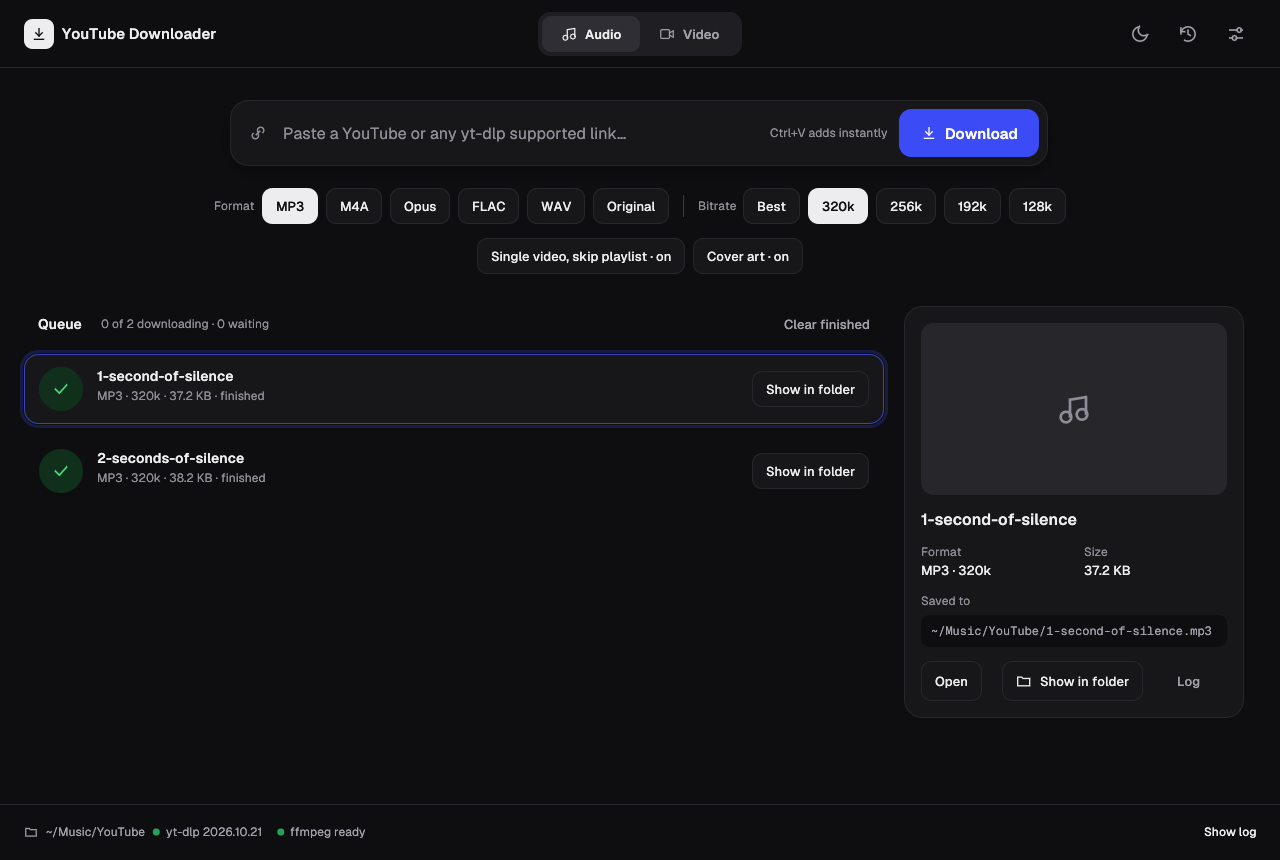
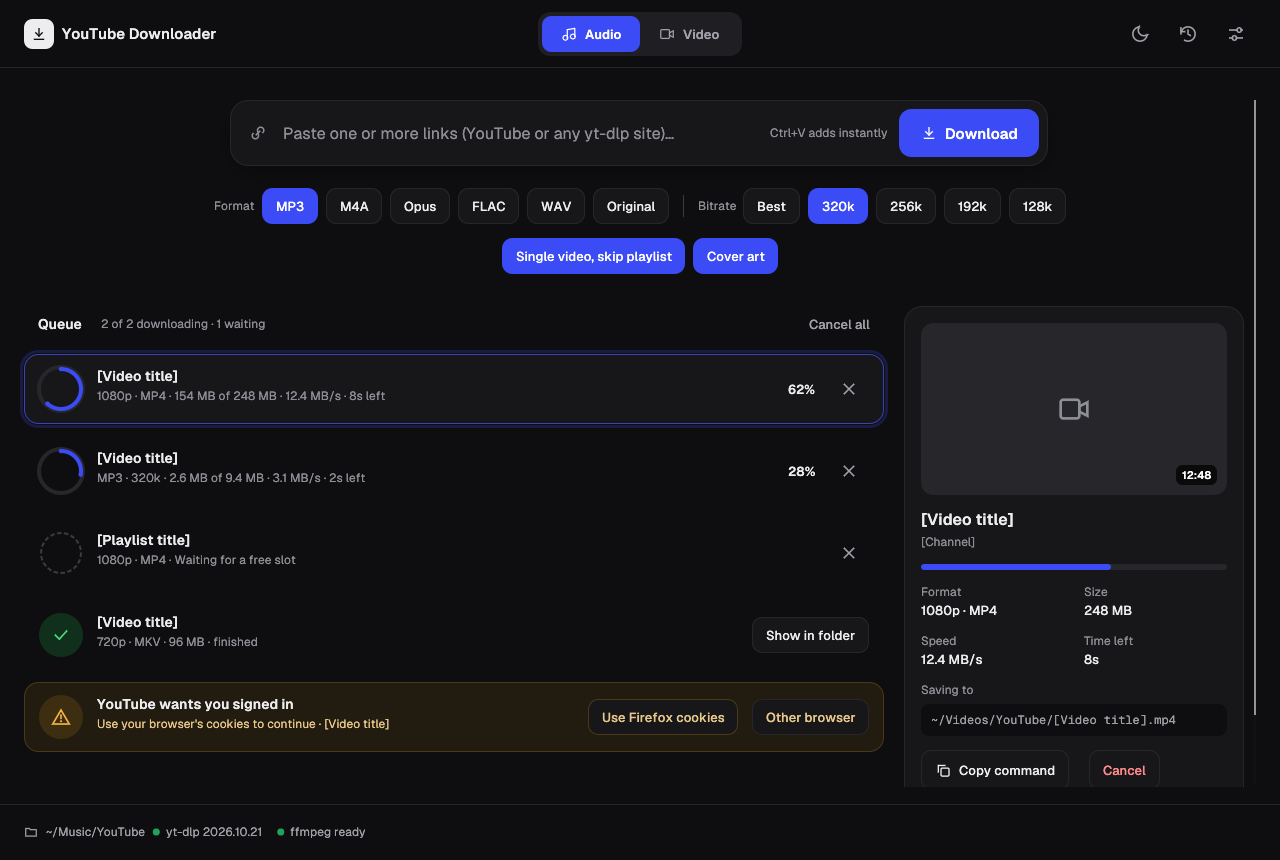
Selected choices use the accent color, like the Download button
Selected chips (format, quality, bitrate, settings choices), the
selected Audio/Video segment and on/off options now share the blue of
the Download button instead of an inverted white/black. On/off options
look selected when on, without the '· on/off' suffix. The link field
says it takes one or more links. README screenshots refreshed.
Version 0.1.2.

diff --git a/crates/app/src/widgets.rs b/crates/app/src/widgets.rs
@@ -25,7 +25,7 @@ fn galley(
 /// A pill-shaped choice, e.g. `1080p` or `MP3`.
 pub fn chip(ui: &mut Ui, label: &str, selected: bool) -> Response {
     let p = palette(ui.ctx());
-    let fg = if selected { p.chip_selected_fg } else { p.text };
+    let fg = if selected { p.on_accent } else { p.text };
     let text = galley(ui, label, 13.0, Weight::Medium, fg);
     let size = vec2(text.size().x + 28.0, 36.0);
     let (rect, resp) = ui.allocate_exact_size(size, Sense::click());
@@ -33,7 +33,13 @@ pub fn chip(ui: &mut Ui, label: &str, selected: bool) -> Response {
     if ui.is_rect_visible(rect) {
         let r = CornerRadius::same(radius::CONTROL);
         if selected {
-            ui.painter().rect_filled(rect, r, p.chip_selected_bg);
+            // Same color as the Download button, so every choice reads as one system.
+            let fill = if resp.hovered() {
+                p.accent_hover
+            } else {
+                p.accent
+            };
+            ui.painter().rect_filled(rect, r, fill);
         } else {
             let fill = if resp.hovered() {
                 p.surface_hover
@@ -86,7 +92,7 @@ pub fn segmented<T: PartialEq + Copy>(
     let labels: Vec<_> = options
         .iter()
         .map(|(v, _, l)| {
-            let color = if v == value { p.text } else { p.muted };
+            let color = if v == value { p.on_accent } else { p.muted };
             galley(ui, l, 13.0, Weight::SemiBold, color)
         })
         .collect();
@@ -117,12 +123,12 @@ pub fn segmented<T: PartialEq + Copy>(
                 r,
                 Color32::from_black_alpha(18),
             );
-            ui.painter().rect_filled(rect, r, p.segment_selected);
+            ui.painter().rect_filled(rect, r, p.accent);
         } else if resp.hovered() {
             ui.painter()
                 .rect_filled(rect, CornerRadius::same(9), p.surface_hover);
         }
-        let color = if selected { p.text } else { p.muted };
+        let color = if selected { p.on_accent } else { p.muted };
         let content_w = 15.0 + 8.0 + text.size().x;
         let left = rect.center().x - content_w / 2.0;
         icons::paint(
@@ -406,8 +412,10 @@ pub fn link_field(ui: &mut Ui, text: &mut String, paste_hint: &str) -> LinkField
                     .font(font(16.0, Weight::Regular))
                     .text_color(p.text)
                     .hint_text(
-                        egui::RichText::new("Paste a YouTube or any yt-dlp supported link…")
-                            .color(p.faint),
+                        egui::RichText::new(
+                            "Paste one or more links (YouTube or any yt-dlp site)…",
+                        )
+                        .color(p.faint),
                     )
                     .desired_width(field_w)
                     .vertical_align(egui::Align::Center)

diff --git a/crates/app/src/theme.rs b/crates/app/src/theme.rs
@@ -23,11 +23,7 @@ pub struct Palette {
     pub accent: Color32,
     pub accent_hover: Color32,
     pub on_accent: Color32,
-    /// Selected chips are the inverse of the page: light on dark, dark on light.
-    pub chip_selected_bg: Color32,
-    pub chip_selected_fg: Color32,
     pub segment_bg: Color32,
-    pub segment_selected: Color32,
     pub selected_border: Color32,
     pub selected_glow: Color32,
     pub track: Color32,
@@ -57,10 +53,7 @@ pub const DARK: Palette = Palette {
     accent: hex(0x3B4BF5),
     accent_hover: hex(0x4F5DF7),
     on_accent: hex(0xFFFFFF),
-    chip_selected_bg: hex(0xEDEDEF),
-    chip_selected_fg: hex(0x111113),
     segment_bg: hex(0x1F1F23),
-    segment_selected: hex(0x2E2E34),
     selected_border: hex(0x3A44B8),
     selected_glow: Color32::from_rgba_premultiplied(13, 17, 55, 56),
     track: hex(0x26262B),
@@ -86,10 +79,7 @@ pub const LIGHT: Palette = Palette {
     accent: hex(0x3B4BF5),
     accent_hover: hex(0x2F3EE0),
     on_accent: hex(0xFFFFFF),
-    chip_selected_bg: hex(0x18181B),
-    chip_selected_fg: hex(0xFFFFFF),
     segment_bg: hex(0xEAE8E2),
-    segment_selected: hex(0xFFFFFF),
     selected_border: hex(0xD9DCFF),
     selected_glow: hex(0xEEF0FF),
     track: hex(0xECEAE4),
@@ -294,12 +284,12 @@ mod tests {
                     assert!(c >= 4.5, "{fg:?} on {bg:?} is only {c:.2}:1");
                 }
             }
+            // Selected chips, the Audio/Video switch and buttons all use the accent.
             assert!(contrast(p.on_accent, p.accent) >= 4.5);
-            assert!(contrast(p.chip_selected_fg, p.chip_selected_bg) >= 4.5);
+            assert!(contrast(p.on_accent, p.accent_hover) >= 4.5);
             assert!(contrast(p.success, p.success_bg) >= 4.5);
             assert!(contrast(p.warn_text, p.warn_bg) >= 4.5);
             assert!(contrast(p.danger, p.surface) >= 4.5);
-            assert!(contrast(p.text, p.segment_selected) >= 4.5);
         }
     }
 }

diff --git a/crates/app/src/app.rs b/crates/app/src/app.rs
@@ -600,9 +600,9 @@ impl App {
             if video {
                 toggles.push(("Subtitles", &mut o.embed_subs));
             }
+            // On/off options look selected when on, like the other choices.
             for (label, value) in toggles {
-                let text = format!("{label} · {}", if *value { "on" } else { "off" });
-                if w::chip(ui, &text, false).clicked() {
+                if w::chip(ui, label, *value).clicked() {
                     *value = !*value;
                     changed = true;
                 }

diff --git a/README.md b/README.md
@@ -15,8 +15,7 @@ A fast, native desktop app for downloading audio and video with
 | ![Main window, dark theme, two finished audio downloads](docs/screenshots/main-dark.png) | ![Main window, light theme, video mode with sample queue](docs/screenshots/main-light.png) |
 | ![Settings page, dark theme](docs/screenshots/settings.png) | ![History page, light theme](docs/screenshots/history.png) |
 
-> The dark screenshot shows two real downloads; the light one uses sample queue items
-> (`--demo`) to show every state at once.
+> The main window screenshots use sample queue items (`--demo`) to show every state at once.
 
 ## Features
 
